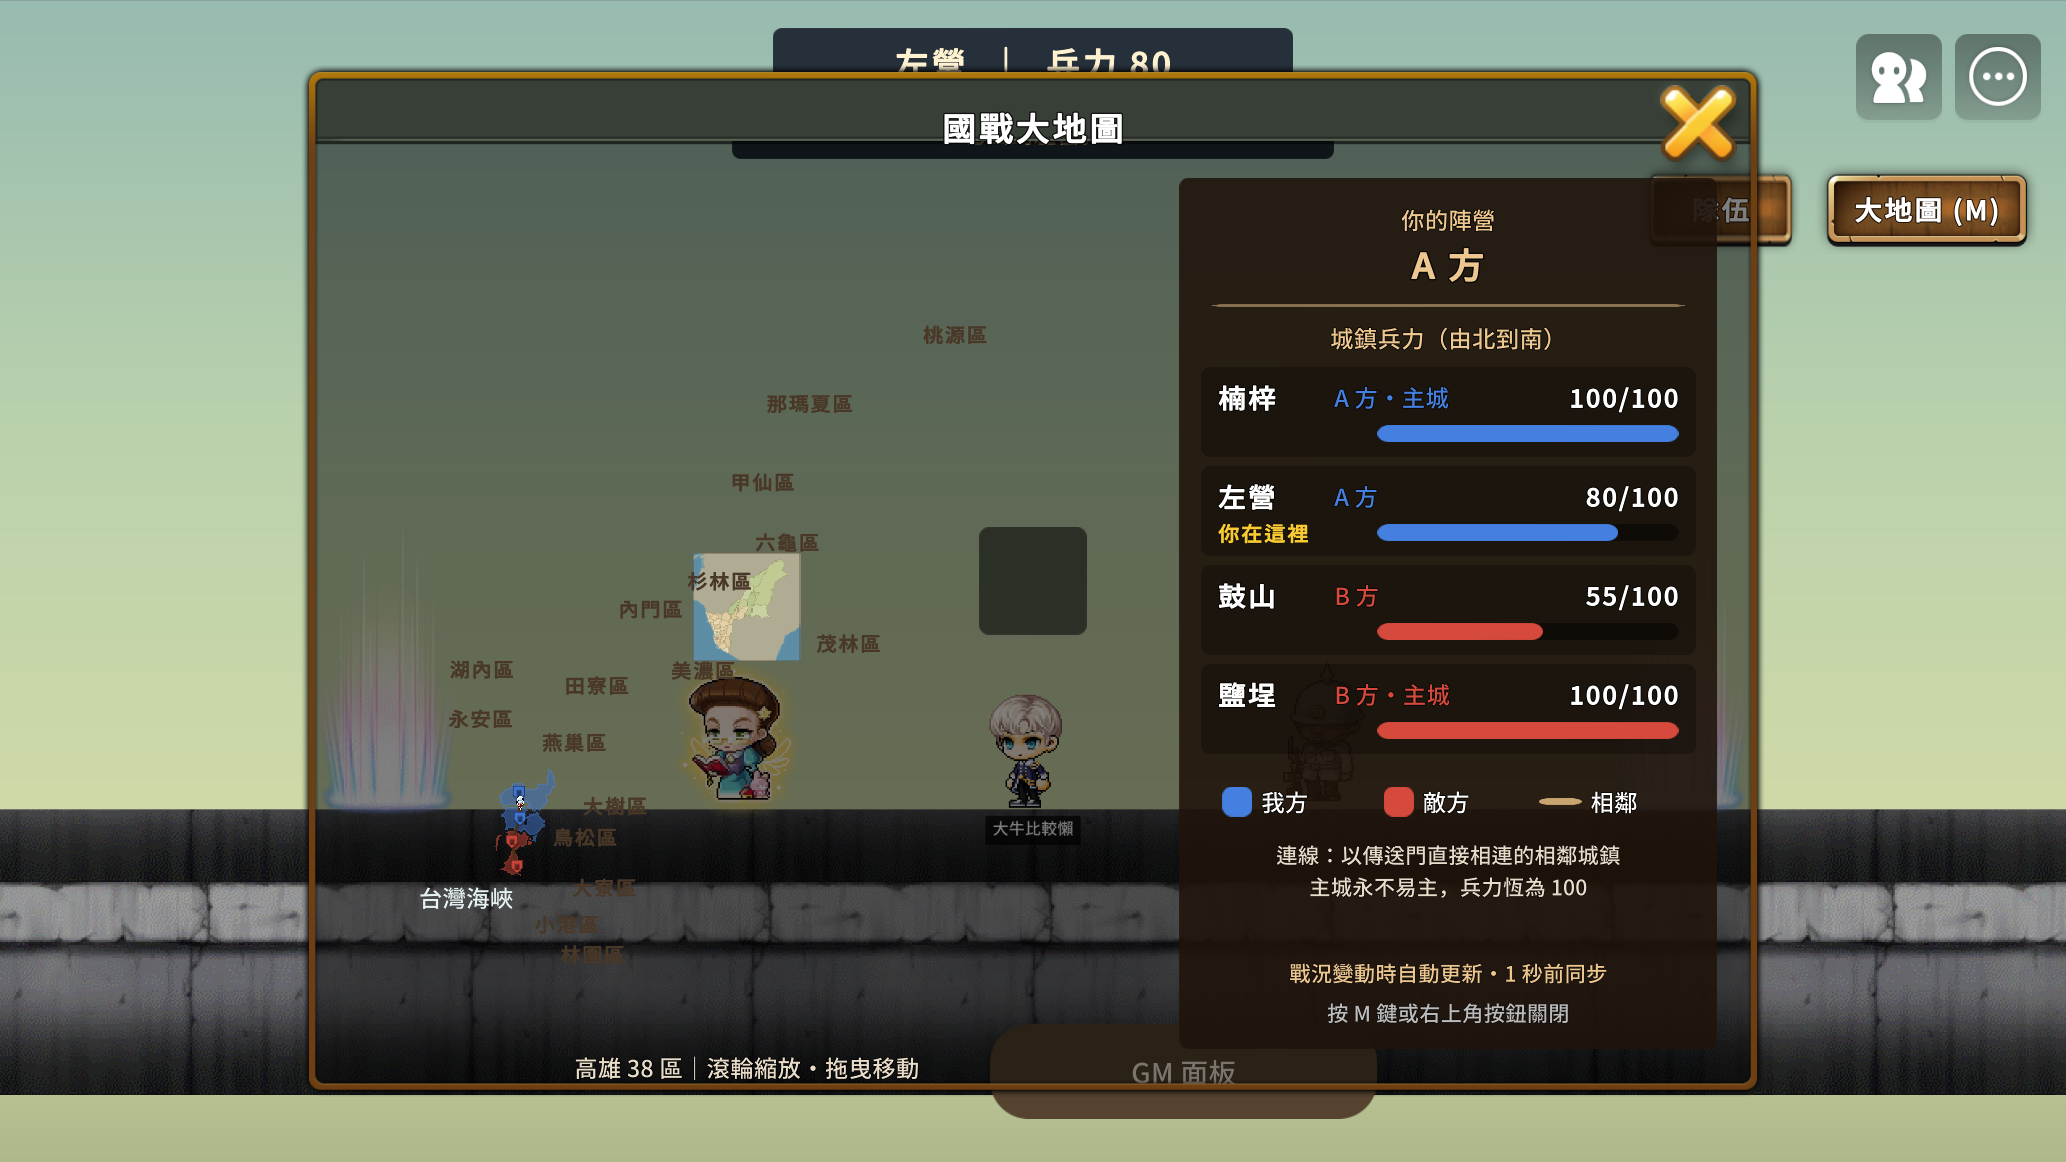
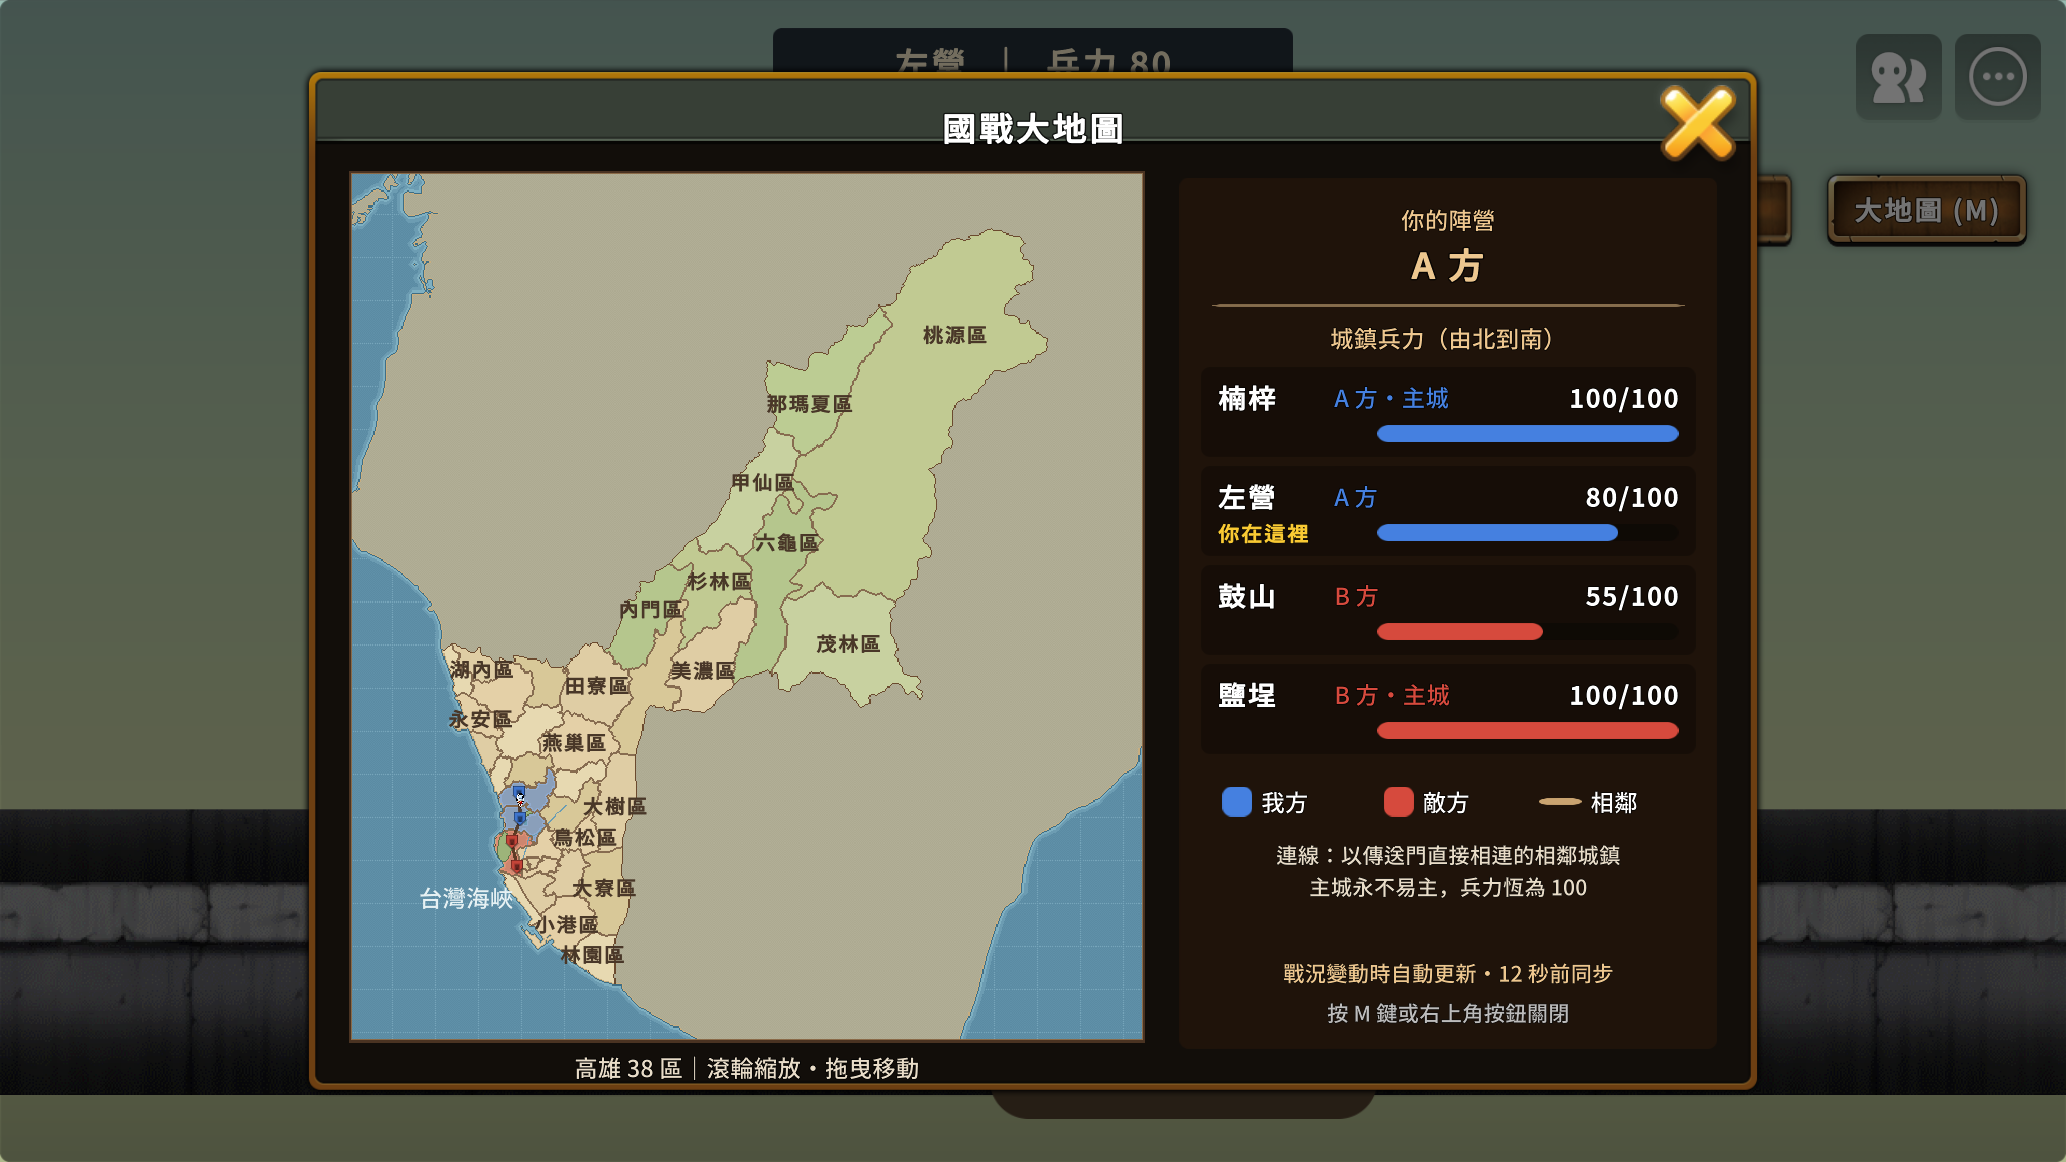
fix: restore the opaque full-size war map (#130)

diff --git a/tests/README.md b/tests/README.md
@@ -26,7 +26,7 @@ Verified #64 in Maker on 2026-11-09: `MonsterProgression` (20:19:05), `MonsterLe
 
 Maker: in a fresh Play with one real local client, use `faction_war_stance_runtime_probe.lua`. Run `SETUP` (`server_main`), then `MAP`, `SIEGE`, `RESET` (`client`) for each of `FACTION = "A"`, `"B"` and `""`. Capture the map after `MAP` and the siege card after `SIEGE`; finish with `CLEANUP` (`server_main`). The same isolated board is used throughout. The probe supplies a local MatchFlow snapshot to show the siege panel without initiating a match; both screens use real faction and board RPCs. Do not click Cancel on the synthetic snapshot.
 
-Verified 2026-11-27: all 13 `[VRF][WarStance]` steps passed, with no build or runtime errors. Screenshots: [A map](../docs/evidence/issue130/130-a-map.png), [A siege panel](../docs/evidence/issue130/130-a-siege.png), [B map](../docs/evidence/issue130/130-b-map.png), [B siege panel](../docs/evidence/issue130/130-b-siege.png), [unaligned map](../docs/evidence/issue130/130-none-map.png), [unaligned siege panel](../docs/evidence/issue130/130-none-siege.png). The overview's small terrain sprite in this Maker capture is also present in the [#129 baseline](../docs/evidence/issue129/129-view-overview.png); map layout is out of scope for #130.
+Verified 2026-11-27: all 13 `[VRF][WarStance]` steps passed, with no build or runtime errors. Screenshots: [A map](../docs/evidence/issue130/130-a-map.png), [A siege panel](../docs/evidence/issue130/130-a-siege.png), [B map](../docs/evidence/issue130/130-b-map.png), [B siege panel](../docs/evidence/issue130/130-b-siege.png), [unaligned map](../docs/evidence/issue130/130-none-map.png), [unaligned siege panel](../docs/evidence/issue130/130-none-siege.png). The three map screenshots were recaptured after restoring the opaque map window. `faction_war_map_viewport_runtime_probe.lua` verifies the original terrain and input fill the 740×810 viewport, the window backing is opaque and behind the original frame, and the sidebar is opaque. The backing may take a second UIBuilder write and Maker refresh to appear after an incremental import.
 
 ## Faction ids A and B (ADR 0018, #125)
 
